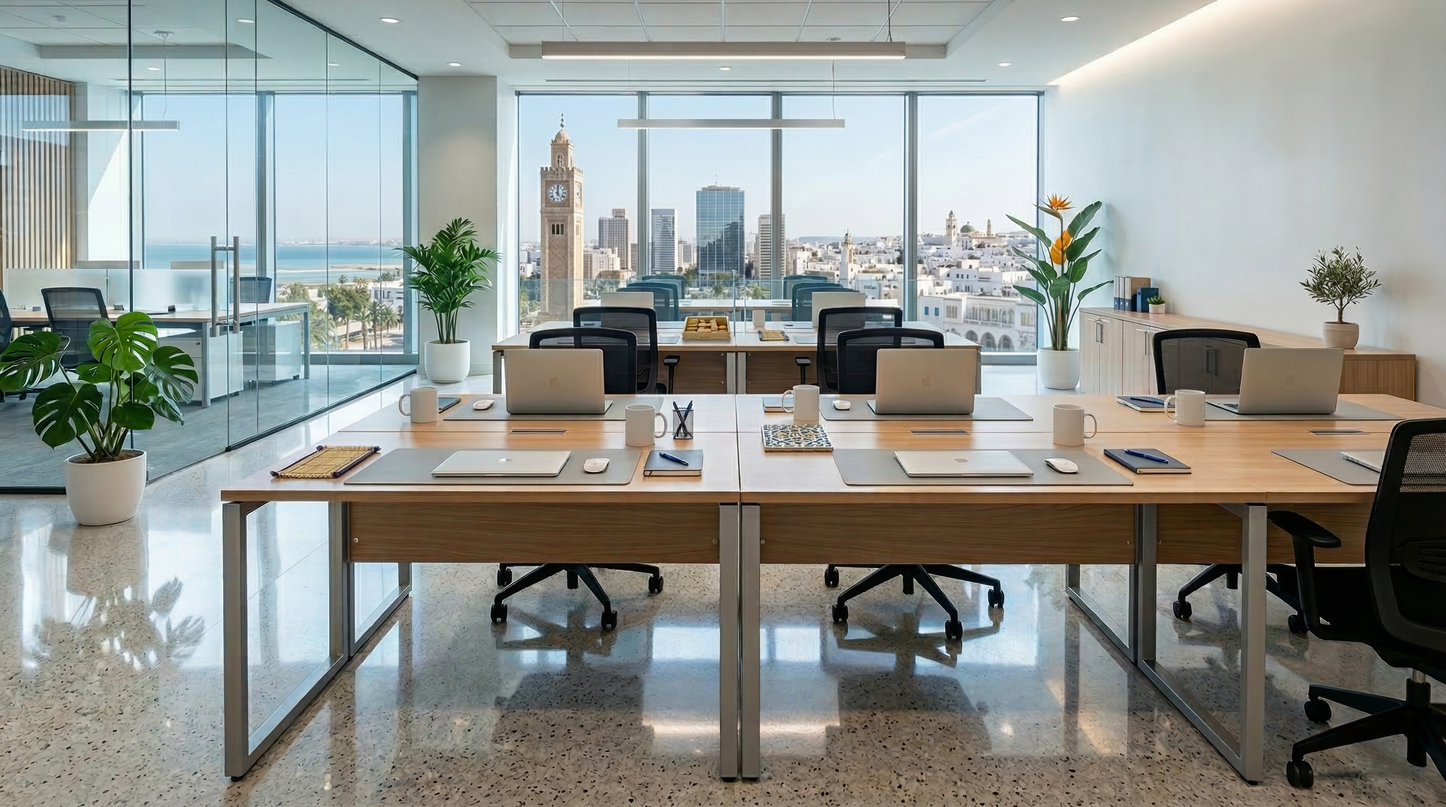
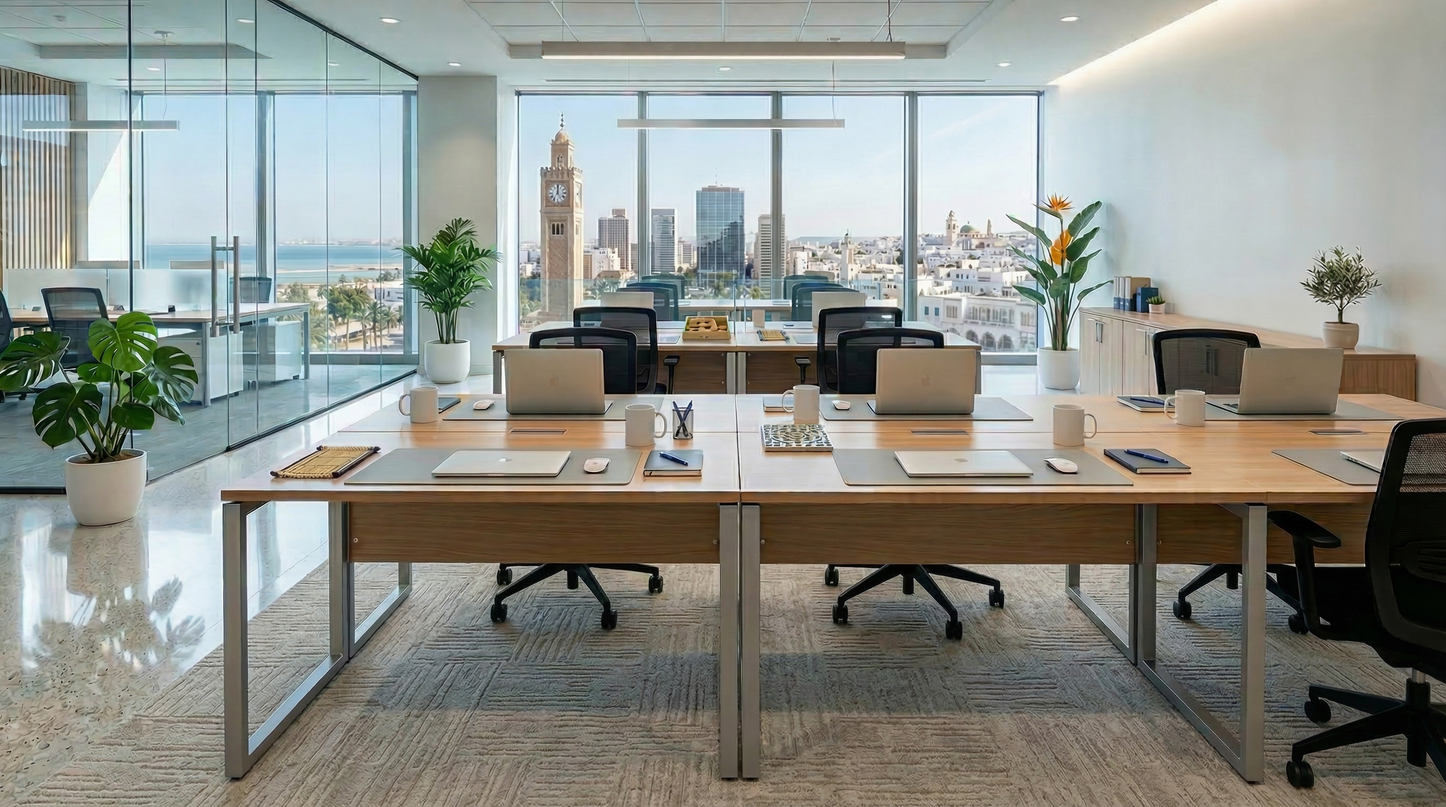
v2

diff --git a/src/data/testimonials.ts b/src/data/testimonials.ts
@@ -8,26 +8,86 @@ export interface Testimonial {
 export const testimonials: Testimonial[] = [
   {
     name: "Sana B.",
-    text: "Mon canapé est comme neuf ! L'équipe est professionnelle et ponctuelle. Je recommande vivement Aquavap.",
+    text: "Mon canapé, mes fauteuils et le tapis du salon sont comme neufs ! L'équipe est professionnelle, rapide et très soigneuse. Je recommande vivement Aquavap.",
     rating: 5,
-    service: "Canapés & Salons",
+    service: "Canapé, Salon & Tapis",
+  },
+  {
+    name: "Houssem A.",
+    text: "Résultat bluffant sur mon salon. Les taches que je croyais permanentes ont complètement disparu. Le canapé sent bon et les couleurs du tapis sont ravivées.",
+    rating: 5,
+    service: "Canapé, Salon & Tapis",
+  },
+  {
+    name: "Yassine M.",
+    text: "Matelas et rideaux nettoyés sur place, sans rien démonter ni déplacer. Très pratique et résultat impressionnant. Je dors beaucoup mieux depuis !",
+    rating: 5,
+    service: "Rideaux & Matelas",
+  },
+  {
+    name: "Ines S.",
+    text: "Équipe sérieuse, rapide et très soignée. Mes rideaux sont d'une blancheur parfaite et mon matelas ne sent plus rien. Je suis bluffée par le résultat.",
+    rating: 5,
+    service: "Rideaux & Matelas",
+  },
+  {
+    name: "Fatma R.",
+    text: "J'avais des taches sur ma moquette que je croyais permanentes. Après le passage d'Aquavap, elle est comme au premier jour. Incroyable !",
+    rating: 5,
+    service: "Moquette",
+  },
+  {
+    name: "Walid B.",
+    text: "La moquette de tout notre étage nettoyée en quelques heures. Les couleurs sont ravivées et il n'y a aucune odeur chimique. Parfait.",
+    rating: 5,
+    service: "Moquette",
+  },
+  {
+    name: "Amira H.",
+    text: "Ils ont nettoyé les sièges, chaises et moquettes de notre hôtel en une journée. Résultat impeccable, nos clients ont remarqué la différence immédiatement.",
+    rating: 5,
+    service: "Entreprise & Bureaux",
+  },
+  {
+    name: "Nabil G.",
+    text: "Nettoyage de nos bureaux et chaises de travail au top. Aucune odeur chimique, tout est sain et propre. Mes employés ont adoré. On renouvelle chaque mois.",
+    rating: 5,
+    service: "Entreprise & Bureaux",
+  },
+  {
+    name: "Khaled T.",
+    text: "Nettoyage de notre salle de cinéma en un temps record. Sièges, moquettes et allées sont impeccables et sans odeur. On les rappellera sans hésiter.",
+    rating: 5,
+    service: "Théâtre & Cinéma",
+  },
+  {
+    name: "Sami D.",
+    text: "Tous les fauteuils de notre salle de spectacle ont retrouvé leur éclat. Travail propre, rapide et sans déranger notre programme. Très professionnel.",
+    rating: 5,
+    service: "Théâtre & Cinéma",
+  },
+  {
+    name: "Rim B.",
+    text: "Aquavap a nettoyé les tapis de notre mosquée avec beaucoup de respect et de professionnalisme. Résultat parfait, on les recommande à toutes les mosquées.",
+    rating: 5,
+    service: "Mosquée",
+  },
+  {
+    name: "Bilel K.",
+    text: "Les tapis et allées de notre mosquée n'ont jamais été aussi propres. L'équipe a travaillé avec sérieux et discrétion. Jazakoum Allahou khayran.",
+    rating: 5,
+    service: "Mosquée",
   },
   {
     name: "Mohamed K.",
-    text: "Service excellent pour ma voiture. L'intérieur n'a jamais été aussi propre. Rapport qualité-prix imbattable.",
+    text: "Service excellent pour ma voiture. Sièges, moquettes, tableau de bord et coffre sont impeccables. L'intérieur n'a jamais été aussi propre.",
     rating: 5,
     service: "Voitures",
   },
   {
-    name: "Amira H.",
-    text: "Ils ont nettoyé tous les tapis de notre hôtel en une journée. Résultat impeccable, nos clients sont ravis.",
+    name: "Anis C.",
+    text: "Ma voiture sent le neuf et les sièges en cuir brillent. Service rapide à domicile, propre et sans effort de ma part. Je n'aurais pas pu demander mieux.",
     rating: 5,
-    service: "Hôtels & Espaces Pro",
-  },
-  {
-    name: "Yassine M.",
-    text: "Matelas et rideaux nettoyés sur place, sans rien démonter. Très pratique et résultat impressionnant.",
-    rating: 4,
-    service: "Rideaux & Matelas",
+    service: "Voitures",
   },
 ];

diff --git a/src/data/services.ts b/src/data/services.ts
@@ -5,11 +5,28 @@ export interface Service {
 }
 
 export const services: Service[] = [
-  // — B2B first —
+  {
+    title: "Canapé, Salon & Tapis",
+    description:
+      "Nettoyage vapeur en profondeur de vos canapés, fauteuils, chaises de salon et tapis : tissu, cuir, velours et microfibre. Élimine poussière, saletés, taches tenaces, odeurs et allergènes.",
+    image: "/images/services/card6.png",
+  },
+  {
+    title: "Rideaux & Matelas",
+    description:
+      "Nettoyage et désinfection sur place de vos rideaux, voilages et matelas, sans démontage ni déplacement. Élimine poussière, saletés, acariens et bactéries pour un sommeil plus sain.",
+    image: "/images/services/card5.png",
+  },
+  {
+    title: "Moquette",
+    description:
+      "Nettoyage en profondeur de vos moquettes murales et sol, couloirs et escaliers moquettés. Élimine poussière, saletés et taches incrustées. Couleurs ravivées, fibres restaurées.",
+    image: "/images/services/card7.png",
+  },
   {
     title: "Entreprise & Bureaux",
     description:
-      "Solutions professionnelles pour bureaux, espaces commerciaux et hôtels. Élimine poussière et saletés. Interventions rapides et efficaces.",
+      "Nettoyage professionnel pour bureaux, open spaces, salles de réunion, hôtels et espaces commerciaux : sièges, chaises, moquettes, cloisons et sols. Élimine poussière et saletés. Interventions rapides, sans perturbation de votre activité.",
     image: "/images/services/card1.png",
   },
   {
@@ -21,39 +38,13 @@ export const services: Service[] = [
   {
     title: "Mosquée",
     description:
-      "Nettoyage approfondi des espaces de prière, tapis et sols. Élimine poussière et saletés. Hygiène irréprochable pour vos lieux de culte.",
+      "Nettoyage approfondi des espaces de prière : tapis de prière, moquettes, sols et allées. Élimine poussière, saletés et impuretés avec respect. Hygiène irréprochable pour vos lieux de culte.",
     image: "/images/services/card4.png",
   },
-  // — Résidentiel —
-  {
-    title: "Nettoyage Vapeur",
-    description:
-      "Désinfection en profondeur à la vapeur haute pression. Élimine poussière, saletés et 99,9% des bactéries sans produits chimiques.",
-    image: "/images/services/card5.png",
-  },
-  {
-    title: "Canapés & Salons",
-    description:
-      "Redonner vie à vos canapés, fauteuils et salons. Élimine poussière, saletés, taches, odeurs et allergènes.",
-    image: "/images/services/card6.png",
-  },
-  {
-    title: "Tapis & Moquettes",
-    description:
-      "Nettoyage en profondeur de vos tapis et moquettes. Élimine poussière et saletés. Couleurs ravivées, fibres restaurées.",
-    image: "/images/services/card7.png",
-  },
-  {
-    title: "Rideaux & Matelas",
-    description:
-      "Nettoyage et désinfection de vos rideaux et matelas sur place, sans démontage. Élimine poussière et saletés.",
-    image: "/images/services/card8.png",
-  },
-  // — Voitures last —
   {
     title: "Voitures",
     description:
-      "Nettoyage intérieur complet de votre véhicule : sièges, moquettes, tableau de bord et plafond. Élimine poussière et saletés.",
+      "Nettoyage intérieur complet de votre véhicule : sièges tissu ou cuir, moquettes, coffre, tableau de bord et plafond. Élimine poussière, saletés, taches et mauvaises odeurs.",
     image: "/images/services/card9.png",
   },
 ];
